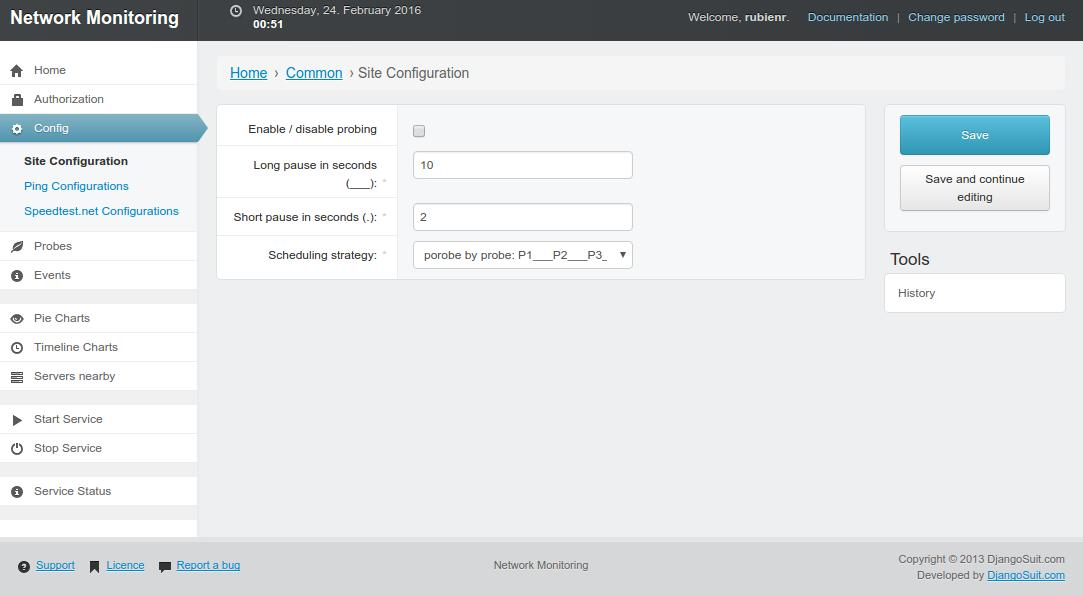
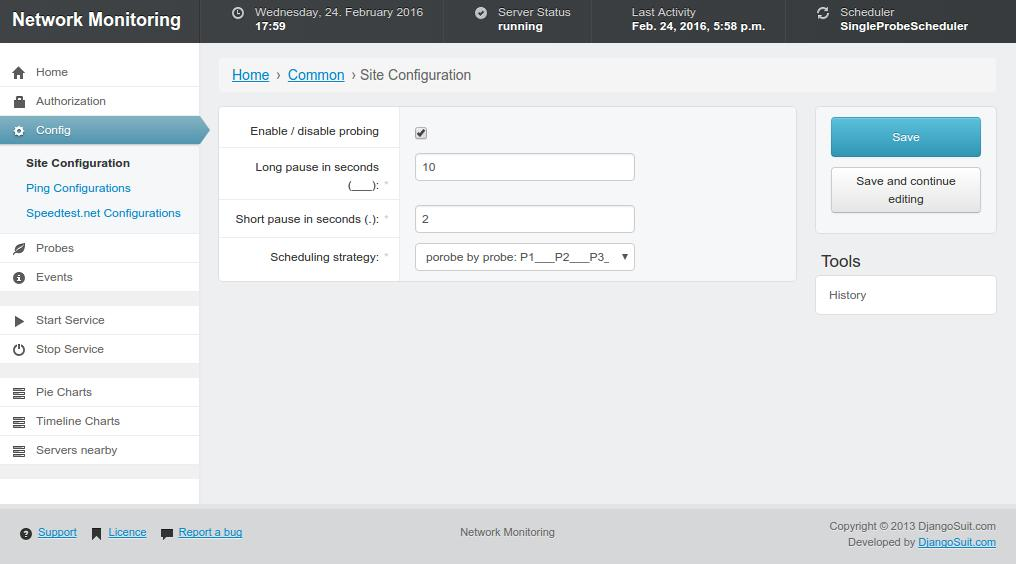
admin ui now shows service status

diff --git a/service/templates/admin/base.html b/service/templates/admin/base.html
@@ -1,0 +1,63 @@
+{% extends 'admin/base.html' %}
+
+{% load monitoring_extras %}
+
+
+{% block header_content %}
+    {% monitoring_load %}
+
+    {# server status #}
+    <div class="header-content header-content-first">
+        <div class="header-column icon">
+            {%  if monitoring.isEnabled %}
+                    {% if monitoring.isRunning %}
+                        <i class="icon-ok-sign"></i>
+                    {% else %}
+                        <i class="icon-exclamation-sign"></i>
+                    {% endif %}
+            {% else %}
+                    {% if monitoring.isRunning %}
+                        <i class="icon-exclamation-sign"></i>
+                    {% else %}
+                        <i class="icon-minus-sign"></i>
+                    {% endif %}
+            {% endif %}
+        </div>
+
+        <div class="header-column">
+            <span class="date">Server Status</span><br>
+            <span class="time" id="clock"> {{ monitoring.statusString }} </span>
+        </div>
+    </div>
+
+    {# last event #}
+    <div class="header-content header-content-first">
+        <div class="header-column icon">
+            {%  if monitoring.isLastActivityErroneous %}
+                <i class="icon-exclamation-sign"></i>
+            {% else %}
+                <i class=""></i>
+            {% endif %}
+        </div>
+
+        <div class="header-column">
+            <span class="date">Last Activity</span><br>
+            <span class="time" id="clock"> {{ monitoring.lastActivity }} </span>
+        </div>
+    </div>
+
+    {# scheduler name #}
+    {%  if monitoring.isEnabled and monitoring.isRunning %}
+        <div class="header-content header-content-first">
+            <div class="header-column icon">
+                <i class="icon-refresh"></i>
+            </div>
+            <div class="header-column">
+                <span class="date">Scheduler</span><br>
+                <span class="time" id="clock"> {{ monitoring.schedulerName}} </span>
+            </div>
+        </div>
+    {% endif %}
+
+    {{ block.super }}
+{% endblock %}

diff --git a/data_vis/templates/bootstrap/serverlist.html b/data_vis/templates/bootstrap/serverlist.html
@@ -7,7 +7,6 @@
 {% endblock %}
 
 {% block content %}
-    {#% include_container chartcontainer 400 600 %#}
     <table class="table table-bordered">
     <thead>
         <tr>

diff --git a/monitoring/settings.py b/monitoring/settings.py
@@ -138,7 +138,7 @@ TEMPLATES = [
         'BACKEND': 'django.template.backends.django.DjangoTemplates',
         'DIRS': [
             # insert your TEMPLATE_DIRS here
-            #os.path.join(BASE_DIR, 'templates'),
+            os.path.join(BASE_DIR, 'service/templates'),
         ],
         'APP_DIRS': True,
         'OPTIONS': {
@@ -188,19 +188,19 @@ SUIT_CONFIG = {
         {'app': 'common', 'label': 'Events', 'icon': 'icon-info-sign', "models": ("SchedulerEvents", "ProbeEvents")},
         "-",
         "-",
-
-        {'label': 'Pie Charts', 'url': 'ping_count_pie', "icon": "icon-eye-open", "blank": True},
-        {'label': 'Timeline Charts', 'url': 'ping_timeline', "icon": "icon-time", "blank": True},
-        {'label': 'Servers nearby','url': 'server_list', "icon": "icon-tasks", "blank": True},
-        "-",
-        "-",
         {'label': 'Start Service','url': 'start_service', "icon": "icon-play"},
         {'label': 'Stop Service','url': 'stop_service', "icon": "icon-off"},
         "-",
         "-",
-        {"label": "Service Status", "url": "/admin/common/servicestatus", 'icon': 'icon-info-sign'},
+        {'label': 'Pie Charts', 'url': 'ping_count_pie', "icon": "icon-tasks", "blank": True},
+        {'label': 'Timeline Charts', 'url': 'ping_timeline', "icon": "icon-tasks", "blank": True},
+        {'label': 'Servers nearby','url': 'server_list', "icon": "icon-tasks", "blank": True},
         "-",
-        "-",),
+        "-",
+        #{"label": "Service Status", "url": "/admin/common/servicestatus", 'icon': 'icon-info-sign'},
+        #"-",
+        #"-",
+    ),
 }
 
 

diff --git a/service/templatetags/monitoring_extras.py b/service/templatetags/monitoring_extras.py
@@ -1,0 +1,48 @@
+from django import template
+from common.models import SiteConfiguration, SchedulerEvents
+from service.Scheduler import isAvailable as isSchedulerAvailable
+register = template.Library()
+
+
+@register.tag
+def monitoring_load(parser, token):
+    r = ServiceStatusNode()
+    return r
+
+class ServiceStatusNode(template.Node):
+
+    def __init__(self):
+        pass
+
+    def render(self, context):
+        config = SiteConfiguration.objects.get()
+        isEnabled = config.isProbingEnabled
+        isRunning = isSchedulerAvailable()
+
+        events = SchedulerEvents.objects.order_by('-timestamp')
+        lastEvent = events[0]
+        lastStartEvent = events.filter(message="start")[0]
+
+        module, schedulerName = config.schedulerName.rsplit('.', 1)
+        context['monitoring'] = {
+            "statusString": self.generateStatusString(isEnabled, isRunning),
+            "lastActivity": lastEvent.timestamp,
+            "isLastActivityErroneous": lastEvent.isErroneous,
+            "timeStarted": lastStartEvent.timestamp,
+            "schedulerName": schedulerName,
+            "isEnabled": isEnabled,
+            "isRunning": isRunning,
+        }
+        return ""
+
+    def generateStatusString(self, isEnabled, isRunning):
+        if isEnabled:
+            if isRunning:
+                return "running"
+            else:
+                return "enabled but not running"
+        else:
+            if isRunning:
+                return "disabled but running"
+            else:
+                return "stopped"
